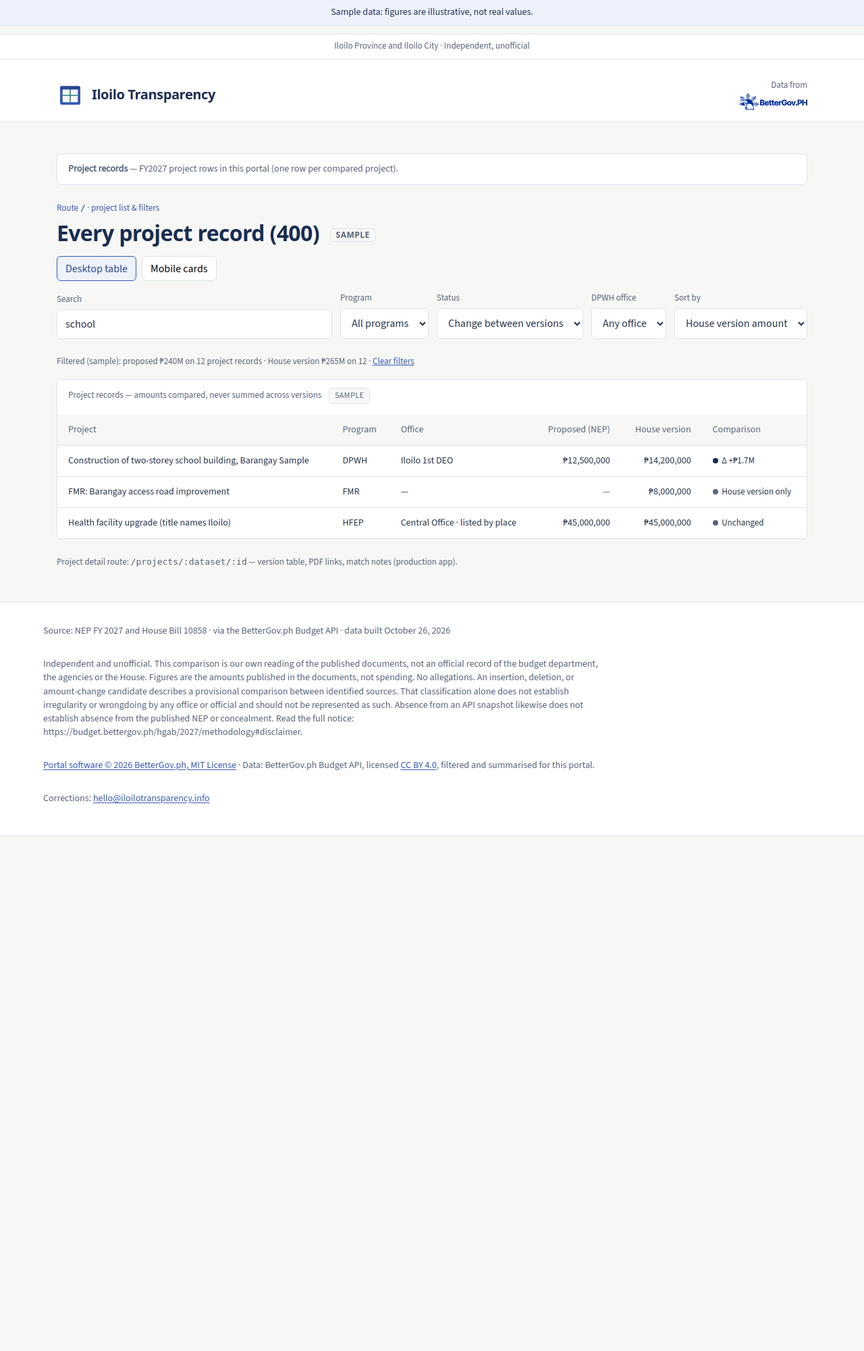
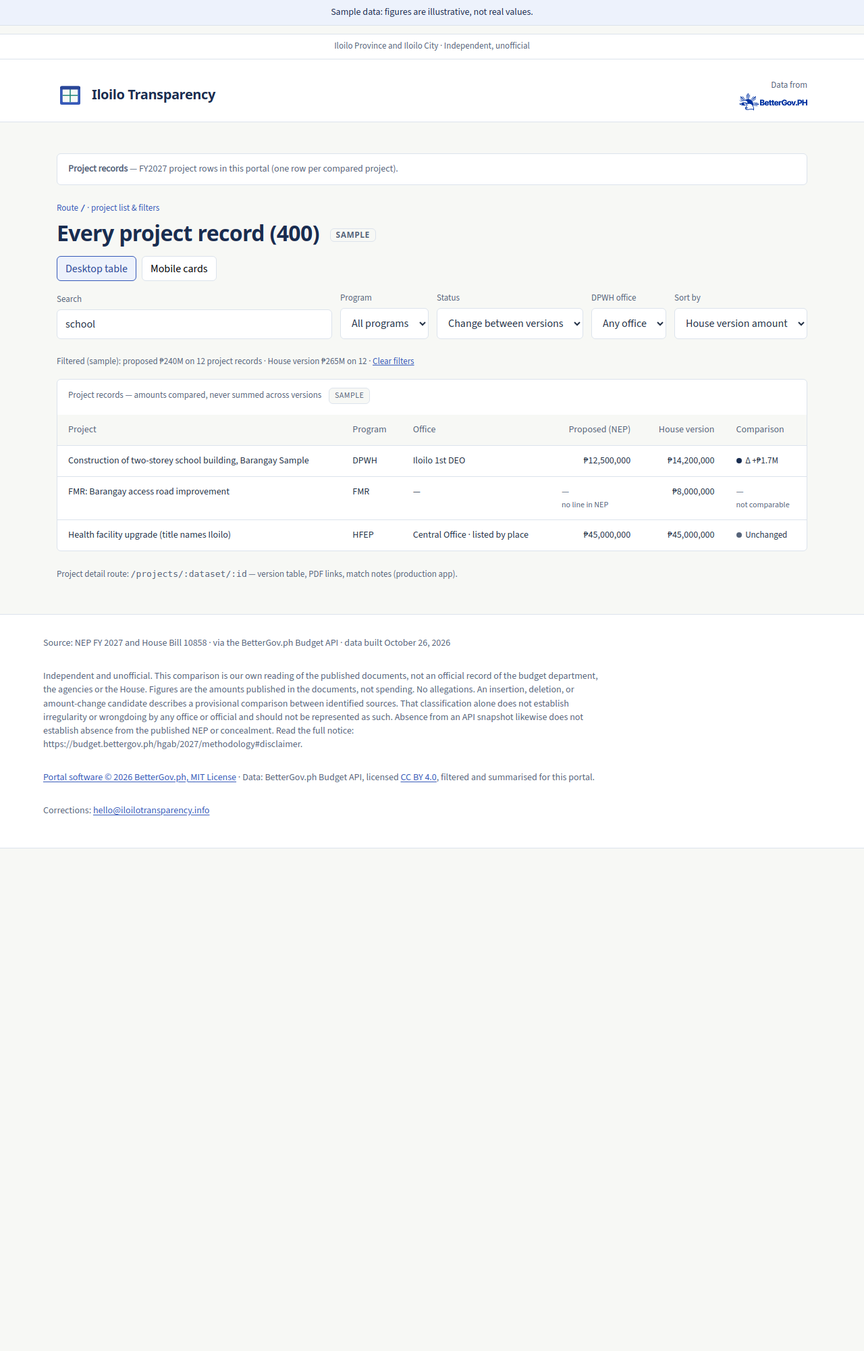
R0: fix office card motion and reconcile sample totals
Valid --motion-card animation, aligned six-office sums, missing NEP on
project rows only, mobile table headers, remove chip replay demo.

diff --git a/design/overview-desktop.html b/design/overview-desktop.html
@@ -64,7 +64,7 @@
               <dl class="office-card-figures">
                 <div><dt>Proposed (NEP) <span class="sample-badge">Sample</span></dt><dd class="num office-card-value"><span class="is-visible">₱3.6B</span></dd></div>
                 <div><dt>House version <span class="sample-badge">Sample</span></dt><dd class="num office-card-value"><span class="is-visible">₱3.9B</span></dd></div>
-                <div><dt>Project records <span class="sample-badge">Sample</span></dt><dd class="num office-card-value"><span class="is-visible">85</span></dd></div>
+                <div><dt>Project records <span class="sample-badge">Sample</span></dt><dd class="num office-card-value"><span class="is-visible">60</span></dd></div>
                 <div><dt>Change <span class="sample-badge">Sample</span></dt><dd class="num office-change office-card-value"><span class="is-visible">+₱0.3B (+8.3%)</span></dd></div>
               </dl>
               <p class="bar-compare-note">Compared, not added.</p>
@@ -77,7 +77,7 @@
               <dl class="office-card-figures">
                 <div><dt>Proposed (NEP) <span class="sample-badge">Sample</span></dt><dd class="num office-card-value"><span class="is-visible">₱2.8B</span></dd></div>
                 <div><dt>House version <span class="sample-badge">Sample</span></dt><dd class="num office-card-value"><span class="is-visible">₱3.0B</span></dd></div>
-                <div><dt>Project records <span class="sample-badge">Sample</span></dt><dd class="num office-card-value"><span class="is-visible">70</span></dd></div>
+                <div><dt>Project records <span class="sample-badge">Sample</span></dt><dd class="num office-card-value"><span class="is-visible">60</span></dd></div>
                 <div><dt>Change <span class="sample-badge">Sample</span></dt><dd class="num office-change office-card-value"><span class="is-visible">+₱0.2B (+7.1%)</span></dd></div>
               </dl>
               <p class="bar-compare-note">Compared, not added.</p>
@@ -88,10 +88,10 @@
                 <h3 class="office-card-title">Iloilo 2nd District Engineering Office</h3>
               </div>
               <dl class="office-card-figures">
-                <div><dt>Proposed (NEP) <span class="sample-badge">Sample</span></dt><dd class="num office-card-value"><span class="is-visible">₱3.0B</span></dd></div>
+                <div><dt>Proposed (NEP) <span class="sample-badge">Sample</span></dt><dd class="num office-card-value"><span class="is-visible">₱2.7B</span></dd></div>
                 <div><dt>House version <span class="sample-badge">Sample</span></dt><dd class="num office-card-value"><span class="is-visible">₱2.9B</span></dd></div>
-                <div><dt>Project records <span class="sample-badge">Sample</span></dt><dd class="num office-card-value"><span class="is-visible">65</span></dd></div>
-                <div><dt>Change <span class="sample-badge">Sample</span></dt><dd class="num office-change office-card-value"><span class="is-visible">−₱0.1B (−3.3%)</span></dd></div>
+                <div><dt>Project records <span class="sample-badge">Sample</span></dt><dd class="num office-card-value"><span class="is-visible">60</span></dd></div>
+                <div><dt>Change <span class="sample-badge">Sample</span></dt><dd class="num office-change office-card-value"><span class="is-visible">+₱0.2B (+7.4%)</span></dd></div>
               </dl>
               <p class="bar-compare-note">Compared, not added.</p>
             </article>
@@ -103,7 +103,7 @@
               <dl class="office-card-figures">
                 <div><dt>Proposed (NEP) <span class="sample-badge">Sample</span></dt><dd class="num office-card-value"><span class="is-visible">₱2.5B</span></dd></div>
                 <div><dt>House version <span class="sample-badge">Sample</span></dt><dd class="num office-card-value"><span class="is-visible">₱2.6B</span></dd></div>
-                <div><dt>Project records <span class="sample-badge">Sample</span></dt><dd class="num office-card-value"><span class="is-visible">55</span></dd></div>
+                <div><dt>Project records <span class="sample-badge">Sample</span></dt><dd class="num office-card-value"><span class="is-visible">60</span></dd></div>
                 <div><dt>Change <span class="sample-badge">Sample</span></dt><dd class="num office-change office-card-value"><span class="is-visible">+₱0.1B (+4.0%)</span></dd></div>
               </dl>
               <p class="bar-compare-note">Compared, not added.</p>
@@ -116,7 +116,7 @@
               <dl class="office-card-figures">
                 <div><dt>Proposed (NEP) <span class="sample-badge">Sample</span></dt><dd class="num office-card-value"><span class="is-visible">₱2.4B</span></dd></div>
                 <div><dt>House version <span class="sample-badge">Sample</span></dt><dd class="num office-card-value"><span class="is-visible">₱2.5B</span></dd></div>
-                <div><dt>Project records <span class="sample-badge">Sample</span></dt><dd class="num office-card-value"><span class="is-visible">50</span></dd></div>
+                <div><dt>Project records <span class="sample-badge">Sample</span></dt><dd class="num office-card-value"><span class="is-visible">60</span></dd></div>
                 <div><dt>Change <span class="sample-badge">Sample</span></dt><dd class="num office-change office-card-value"><span class="is-visible">+₱0.1B (+4.2%)</span></dd></div>
               </dl>
               <p class="bar-compare-note">Compared, not added.</p>
@@ -127,15 +127,16 @@
                 <h3 class="office-card-title">Iloilo 6th District Engineering Office</h3>
               </div>
               <dl class="office-card-figures">
-                <div><dt>Proposed (NEP) <span class="sample-badge">Sample</span></dt><dd class="office-missing office-card-value"><span class="is-visible">—<span class="office-missing-note">no line in NEP</span></span></dd></div>
-                <div><dt>House version <span class="sample-badge">Sample</span></dt><dd class="num office-card-value"><span class="is-visible">₱1.2B</span></dd></div>
-                <div><dt>Project records <span class="sample-badge">Sample</span></dt><dd class="num office-card-value"><span class="is-visible">45</span></dd></div>
-                <div><dt>Change <span class="sample-badge">Sample</span></dt><dd class="office-missing office-card-value"><span class="is-visible">—<span class="office-missing-note">not comparable</span></span></dd></div>
+                <div><dt>Proposed (NEP) <span class="sample-badge">Sample</span></dt><dd class="num office-card-value"><span class="is-visible">₱2.0B</span></dd></div>
+                <div><dt>House version <span class="sample-badge">Sample</span></dt><dd class="num office-card-value"><span class="is-visible">₱2.1B</span></dd></div>
+                <div><dt>Project records <span class="sample-badge">Sample</span></dt><dd class="num office-card-value"><span class="is-visible">60</span></dd></div>
+                <div><dt>Change <span class="sample-badge">Sample</span></dt><dd class="num office-change office-card-value"><span class="is-visible">+₱0.1B (+5.0%)</span></dd></div>
               </dl>
               <p class="bar-compare-note">Compared, not added.</p>
             </article>
           </div>
           <p class="progress-note">Progress data: not available. These are budget amounts, not spending or completion.</p>
+          <p class="stat-note office-scope-note"><strong>Sample summary for the six offices shown</strong> <span class="sample-badge">Sample</span> — totals match the card grid above; compared, not added.</p>
           <p class="chart-alt" style="margin-bottom: var(--space-4)"><a href="#office-table">Table view</a> · full office comparison</p>
           <div class="data-table-wrap" id="office-table">
             <table class="data-table">
@@ -156,71 +157,72 @@
                   <td>Iloilo City District Engineering Office</td>
                   <td class="num">₱3.6B</td>
                   <td class="num">₱3.9B</td>
-                  <td class="num">85</td>
+                  <td class="num">60</td>
                   <td class="num">+₱0.3B (+8.3%)</td>
                 </tr>
                 <tr>
                   <td>Iloilo 1st District Engineering Office</td>
                   <td class="num">₱2.8B</td>
                   <td class="num">₱3.0B</td>
-                  <td class="num">70</td>
+                  <td class="num">60</td>
                   <td class="num">+₱0.2B (+7.1%)</td>
                 </tr>
                 <tr>
                   <td>Iloilo 2nd District Engineering Office</td>
-                  <td class="num">₱3.0B</td>
+                  <td class="num">₱2.7B</td>
                   <td class="num">₱2.9B</td>
-                  <td class="num">65</td>
-                  <td class="num">−₱0.1B (−3.3%)</td>
+                  <td class="num">60</td>
+                  <td class="num">+₱0.2B (+7.4%)</td>
                 </tr>
                 <tr>
                   <td>Iloilo 3rd District Engineering Office</td>
                   <td class="num">₱2.5B</td>
                   <td class="num">₱2.6B</td>
-                  <td class="num">55</td>
+                  <td class="num">60</td>
                   <td class="num">+₱0.1B (+4.0%)</td>
                 </tr>
                 <tr>
                   <td>Iloilo 4th District Engineering Office</td>
                   <td class="num">₱2.4B</td>
                   <td class="num">₱2.5B</td>
-                  <td class="num">50</td>
+                  <td class="num">60</td>
                   <td class="num">+₱0.1B (+4.2%)</td>
                 </tr>
                 <tr>
                   <td>Iloilo 6th District Engineering Office</td>
-                  <td class="missing">— <span class="office-missing-note">no line in NEP</span></td>
-                  <td class="num">₱1.2B</td>
-                  <td class="num">45</td>
-                  <td class="missing">—</td>
+                  <td class="num">₱2.0B</td>
+                  <td class="num">₱2.1B</td>
+                  <td class="num">60</td>
+                  <td class="num">+₱0.1B (+5.0%)</td>
                 </tr>
               </tbody>
             </table>
           </div>
         </section>
 
-        <div class="stats-grid" aria-label="Summary figures">
+        <div class="stats-grid" aria-label="Summary figures for six offices">
           <div class="stat-cell">
-            <p class="stat-label">Projects <span class="sample-badge">Sample</span></p>
-            <p class="stat-value num">400</p>
-            <p class="stat-note">DPWH 300 · FMR 60 · HFEP 25 · NIA 15</p>
+            <p class="stat-label">Project records <span class="sample-badge">Sample</span></p>
+            <p class="stat-value num">360</p>
+            <p class="stat-note">Six offices shown · 60 per office</p>
           </div>
           <div class="stat-cell">
             <p class="stat-label">Proposed (NEP) <span class="sample-badge">Sample</span></p>
-            <p class="stat-value num">₱18.0B</p>
-            <p class="stat-note">360 project records · compared, not added</p>
+            <p class="stat-value num">₱16.0B</p>
+            <p class="stat-note">360 records · compared, not added</p>
           </div>
           <div class="stat-cell">
             <p class="stat-label">House version <span class="sample-badge">Sample</span></p>
-            <p class="stat-value num">₱18.5B</p>
-            <p class="stat-note">380 project records · compared, not added</p>
+            <p class="stat-value num">₱17.0B</p>
+            <p class="stat-note">360 records · compared, not added</p>
           </div>
           <div class="stat-cell">
             <p class="stat-label">In the House version only <span class="sample-badge">Sample</span></p>
             <p class="stat-value num">40</p>
-            <p class="stat-note">Insertion candidates to check</p>
+            <p class="stat-note">Portal-wide bridge filter · not in office card sums</p>
           </div>
         </div>
+        <p class="stat-note">Portal-wide sample: 400 project records · 20 proposed-only · chips below.</p>
 
         <section class="section" aria-labelledby="groups-h">
           <h2 id="groups-h" class="section-title">What the House version did to them</h2>
@@ -260,19 +262,5 @@
         </div>
       </footer>
     </div>
-    <script>
-      function replayOfficeValues(root) {
-        root.querySelectorAll(".office-card-value > span").forEach(function (el) {
-          el.classList.remove("is-visible");
-          void el.offsetWidth;
-          el.classList.add("is-visible");
-        });
-      }
-      document.querySelectorAll("#groups-h .chip").forEach(function (btn) {
-        btn.addEventListener("click", function () {
-          replayOfficeValues(document.getElementById("office-grid"));
-        });
-      });
-    </script>
   </body>
 </html>

diff --git a/design/overview-mobile.html b/design/overview-mobile.html
@@ -52,35 +52,33 @@
               <dl class="office-card-figures">
                 <div><dt>Proposed (NEP) <span class="sample-badge">Sample</span></dt><dd class="num office-card-value"><span class="is-visible">₱3.6B</span></dd></div>
                 <div><dt>House version <span class="sample-badge">Sample</span></dt><dd class="num office-card-value"><span class="is-visible">₱3.9B</span></dd></div>
-                <div><dt>Project records <span class="sample-badge">Sample</span></dt><dd class="num office-card-value"><span class="is-visible">85</span></dd></div>
+                <div><dt>Project records <span class="sample-badge">Sample</span></dt><dd class="num office-card-value"><span class="is-visible">60</span></dd></div>
                 <div><dt>Change <span class="sample-badge">Sample</span></dt><dd class="num office-change office-card-value"><span class="is-visible">+₱0.3B (+8.3%)</span></dd></div>
               </dl>
               <p class="bar-compare-note">Compared, not added.</p>
             </article>
-            <article class="office-card">
-              <div class="office-card-head">
-                <svg class="office-icon" xmlns="http://www.w3.org/2000/svg" viewBox="0 0 24 24" fill="none" stroke="currentColor" stroke-width="2" aria-hidden="true"><path d="M6 22V4a2 2 0 0 1 2-2h8a2 2 0 0 1 2 2v18Z"/><path d="M10 6h4"/><path d="M10 10h4"/><path d="M10 14h4"/><path d="M10 18h4"/></svg>
-                <h3 class="office-card-title">Iloilo 6th District Engineering Office</h3>
-              </div>
-              <dl class="office-card-figures">
-                <div><dt>Proposed (NEP) <span class="sample-badge">Sample</span></dt><dd class="office-missing office-card-value"><span class="is-visible">—<span class="office-missing-note">no line in NEP</span></span></dd></div>
-                <div><dt>House version <span class="sample-badge">Sample</span></dt><dd class="num office-card-value"><span class="is-visible">₱1.2B</span></dd></div>
-                <div><dt>Project records <span class="sample-badge">Sample</span></dt><dd class="num office-card-value"><span class="is-visible">45</span></dd></div>
-                <div><dt>Change <span class="sample-badge">Sample</span></dt><dd class="office-missing office-card-value"><span class="is-visible">—<span class="office-missing-note">not comparable</span></span></dd></div>
-              </dl>
-            </article>
           </div>
           <p class="progress-note">Progress data: not available. These are budget amounts, not spending or completion.</p>
-          <p class="chart-alt"><a href="#office-table">Table view</a></p>
+          <p class="stat-note office-scope-note"><strong>Sample summary for the six offices shown</strong> <span class="sample-badge">Sample</span></p>
+          <p class="chart-alt"><a href="#office-table">Table view</a> · all six offices</p>
           <div class="data-table-wrap" id="office-table">
             <table class="data-table">
               <caption class="stat-label" style="caption-side: top; padding: 0.5rem 0.75rem; text-align: left">Offices (sample) <span class="sample-badge">Sample</span></caption>
               <thead>
-                <tr><th scope="col">Office</th><th class="num">NEP</th><th class="num">House</th><th class="num">Δ</th></tr>
+                <tr>
+                  <th scope="col">Office</th>
+                  <th scope="col" class="num">NEP</th>
+                  <th scope="col" class="num">House</th>
+                  <th scope="col" class="num">Change</th>
+                </tr>
               </thead>
               <tbody>
                 <tr><td>Iloilo City DEO</td><td class="num">₱3.6B</td><td class="num">₱3.9B</td><td class="num">+8.3%</td></tr>
-                <tr><td>Iloilo 6th DEO</td><td class="missing">—</td><td class="num">₱1.2B</td><td class="missing">—</td></tr>
+                <tr><td>Iloilo 1st DEO</td><td class="num">₱2.8B</td><td class="num">₱3.0B</td><td class="num">+7.1%</td></tr>
+                <tr><td>Iloilo 2nd DEO</td><td class="num">₱2.7B</td><td class="num">₱2.9B</td><td class="num">+7.4%</td></tr>
+                <tr><td>Iloilo 3rd DEO</td><td class="num">₱2.5B</td><td class="num">₱2.6B</td><td class="num">+4.0%</td></tr>
+                <tr><td>Iloilo 4th DEO</td><td class="num">₱2.4B</td><td class="num">₱2.5B</td><td class="num">+4.2%</td></tr>
+                <tr><td>Iloilo 6th DEO</td><td class="num">₱2.0B</td><td class="num">₱2.1B</td><td class="num">+5.0%</td></tr>
               </tbody>
             </table>
           </div>
@@ -88,13 +86,16 @@
 
         <div class="stats-grid" style="margin-top: 1.5rem">
           <div class="stat-cell">
-            <p class="stat-label">Projects <span class="sample-badge">Sample</span></p>
-            <p class="stat-value num" style="font-size: 1.5rem">400</p>
+            <p class="stat-label">Records <span class="sample-badge">Sample</span></p>
+            <p class="stat-value num" style="font-size: 1.5rem">360</p>
           </div>
           <div class="stat-cell">
             <p class="stat-label">Proposed (NEP) <span class="sample-badge">Sample</span></p>
-            <p class="stat-value num" style="font-size: 1.5rem">₱18.0B</p>
-            <p class="stat-note">360 records</p>
+            <p class="stat-value num" style="font-size: 1.5rem">₱16.0B</p>
+          </div>
+          <div class="stat-cell">
+            <p class="stat-label">House version <span class="sample-badge">Sample</span></p>
+            <p class="stat-value num" style="font-size: 1.5rem">₱17.0B</p>
           </div>
         </div>
       </main>
@@ -102,7 +103,6 @@
       <footer class="site-footer">
         <div class="footer-inner">
           <p class="footer-source">Source: NEP FY 2027 and House Bill 10858 · via the BetterGov.ph Budget API · data built October 26, 2026</p>
-          <p class="footer-notice">Independent and unofficial. This comparison is our own reading of the published documents, not an official record of the budget department, the agencies or the House. Figures are the amounts published in the documents, not spending. No allegations. An insertion, deletion, or amount-change candidate describes a provisional comparison between identified sources. That classification alone does not establish irregularity or wrongdoing by any office or official and should not be represented as such. Absence from an API snapshot likewise does not establish absence from the published NEP or concealment. Read the full notice: https://budget.bettergov.ph/hgab/2027/methodology#disclaimer.</p>
           <p class="footer-legal"><a href="/LICENSE.txt">Portal software © 2026 BetterGov.ph, MIT License</a> · Data: BetterGov.ph Budget API, licensed <a href="https://creativecommons.org/licenses/by/4.0/" target="_blank" rel="noopener">CC BY 4.0</a>, filtered and summarised for this portal.</p>
           <p class="footer-legal">Corrections: <a href="mailto:hello@iloilotransparency.info">hello@iloilotransparency.info</a></p>
         </div>

diff --git a/design/components.html b/design/components.html
@@ -109,12 +109,36 @@
             <dl class="office-card-figures">
               <div><dt>Proposed (NEP) <span class="sample-badge">Sample</span></dt><dd class="num office-card-value"><span class="is-visible">₱2.8B</span></dd></div>
               <div><dt>House version <span class="sample-badge">Sample</span></dt><dd class="num office-card-value"><span class="is-visible">₱3.0B</span></dd></div>
-              <div><dt>Project records <span class="sample-badge">Sample</span></dt><dd class="num office-card-value"><span class="is-visible">70</span></dd></div>
+              <div><dt>Project records <span class="sample-badge">Sample</span></dt><dd class="num office-card-value"><span class="is-visible">60</span></dd></div>
               <div><dt>Change <span class="sample-badge">Sample</span></dt><dd class="num office-change office-card-value"><span class="is-visible">+₱0.2B (+7.1%)</span></dd></div>
             </dl>
             <p class="bar-compare-note">Compared, not added.</p>
           </article>
           <p class="progress-note" style="margin-top: 1rem">Progress data: not available. These are budget amounts, not spending or completion.</p>
+        </section>
+
+        <section class="component-row">
+          <h2>Project record · missing NEP line <span class="sample-badge">Sample</span></h2>
+          <div class="data-table-wrap">
+            <table class="data-table">
+              <thead>
+                <tr>
+                  <th scope="col">Project</th>
+                  <th scope="col" class="num">Proposed (NEP)</th>
+                  <th scope="col" class="num">House version</th>
+                  <th scope="col">Change</th>
+                </tr>
+              </thead>
+              <tbody>
+                <tr>
+                  <td>FMR: Barangay access road improvement</td>
+                  <td class="missing">— <span class="office-missing-note">no line in NEP</span></td>
+                  <td class="num">₱8,000,000</td>
+                  <td class="missing">— <span class="office-missing-note">not comparable</span></td>
+                </tr>
+              </tbody>
+            </table>
+          </div>
         </section>
 
         <section class="component-row">

diff --git a/design/explorer.html b/design/explorer.html
@@ -96,9 +96,9 @@
                   <td>FMR: Barangay access road improvement</td>
                   <td>FMR</td>
                   <td>—</td>
-                  <td class="num missing">—</td>
+                  <td class="missing">— <span class="office-missing-note">no line in NEP</span></td>
                   <td class="num">₱8,000,000</td>
-                  <td><span class="status-pill"><span class="status-dot" aria-hidden="true"></span>House version only</span></td>
+                  <td class="missing">— <span class="office-missing-note">not comparable</span></td>
                 </tr>
                 <tr>
                   <td>Health facility upgrade (title names Iloilo)</td>
@@ -131,9 +131,9 @@
               <dl>
                 <dt>Program</dt><dd>FMR</dd>
                 <dt>Office</dt><dd>—</dd>
-                <dt>Proposed (NEP)</dt><dd class="missing">— (no line in NEP)</dd>
+                <dt>Proposed (NEP)</dt><dd class="missing">— <span class="office-missing-note">no line in NEP</span></dd>
                 <dt>House version</dt><dd class="num">₱8,000,000</dd>
-                <dt>Comparison</dt><dd>House version only · candidate to check</dd>
+                <dt>Comparison</dt><dd class="missing">— <span class="office-missing-note">not comparable</span></dd>
               </dl>
             </article>
             <article class="project-card" id="record-3">

diff --git a/design/mockups.css b/design/mockups.css
@@ -1049,12 +1049,12 @@ table.data-table {
 
 .office-card-value > span {
   display: inline-block;
-  opacity: 0;
-  transform: translateY(10px);
+  opacity: 1;
+  transform: none;
 }
 
 .office-card-value > span.is-visible {
-  animation: office-value-in var(--motion-card) ease forwards;
+  animation: office-value-in var(--motion-card) ease backwards;
 }
 
 .office-card-figures > div:nth-child(1) .office-card-value > span.is-visible { animation-delay: 0ms; }
@@ -1063,6 +1063,11 @@ table.data-table {
 .office-card-figures > div:nth-child(4) .office-card-value > span.is-visible { animation-delay: 120ms; }
 
 @keyframes office-value-in {
+  from {
+    opacity: 0;
+    transform: translateY(10px);
+  }
+
   to {
     opacity: 1;
     transform: translateY(0);

diff --git a/design/tokens.css b/design/tokens.css
@@ -38,7 +38,7 @@
 
   --motion-control: 180ms ease;
   --motion-chart: 420ms ease;
-  --motion-card: 320ms ease;
+  --motion-card: 320ms;
 
   --page-max: 72rem;
   --gutter: 1.25rem;

diff --git a/design/README.md b/design/README.md
@@ -40,7 +40,7 @@ Labeling: **NEP → “Proposed (NEP)”**; **House bill → “House version”
 ## Motion
 
 - Controls: **150–200ms** (tokens `--motion-control`).
-- **Office card values:** on load and when filters change, figures **fade + translateY** (**200–400ms**, `--motion-card` ~320ms). Final numbers are in the DOM immediately — **no count-up**, **no loops**. **`prefers-reduced-motion`** disables animation. Mockup: `overview-desktop.html` replays on bridge chip click. **Mark may revisit** timing and trigger points.
+- **Office card values:** on load (and in production when scope/filter data actually changes), figures **fade + translateY** using **`--motion-card: 320ms`** and `animation-fill-mode: backwards` — resting state stays **fully visible** if animation does not run. **No count-up**, **no loops**. **`prefers-reduced-motion`** disables animation. Mockup does **not** replay on bridge chips (cards are not filter-linked). **Mark may revisit** timing and triggers.
 
 ## Logo
 
@@ -67,7 +67,7 @@ HGAB **`meta`** (`built_at`, `source_repo`, `source_commit`, `notice`) is on **p
 
 Live reference: **`built_at`** `2026-10-26T08:46:14Z` → footer **data built October 26, 2026** (`date()` in `Asia/Manila`); About **Data version: comparison csiiiv, DPWH-NEP-HB-2027-ANALYSIS, a0caa77, built October 26, 2026.**
 
-**Sample totals (mockups):** 400 project records; bridge chips 200 + 80 + 60 + 40 + 20 = 400; **40** House-version-only → **360** with a proposed (NEP) line; **20** proposed-only → **380** with a House version line.
+**Sample totals (mockups):** **Six offices** — **360** project records (60 × 6), **₱16.0B** proposed (NEP), **₱17.0B** House version; summary row matches card sums. Portal-wide bridge chips: **400** records; **40** House-version-only · **20** proposed-only (not added into office card totals).
 
 **Proposal:** Keep **`meta.built_at`** as the canonical freshness line in the footer; About keeps **`source_commit`** as above. Do not substitute client fetch time for `built_at`.
 
